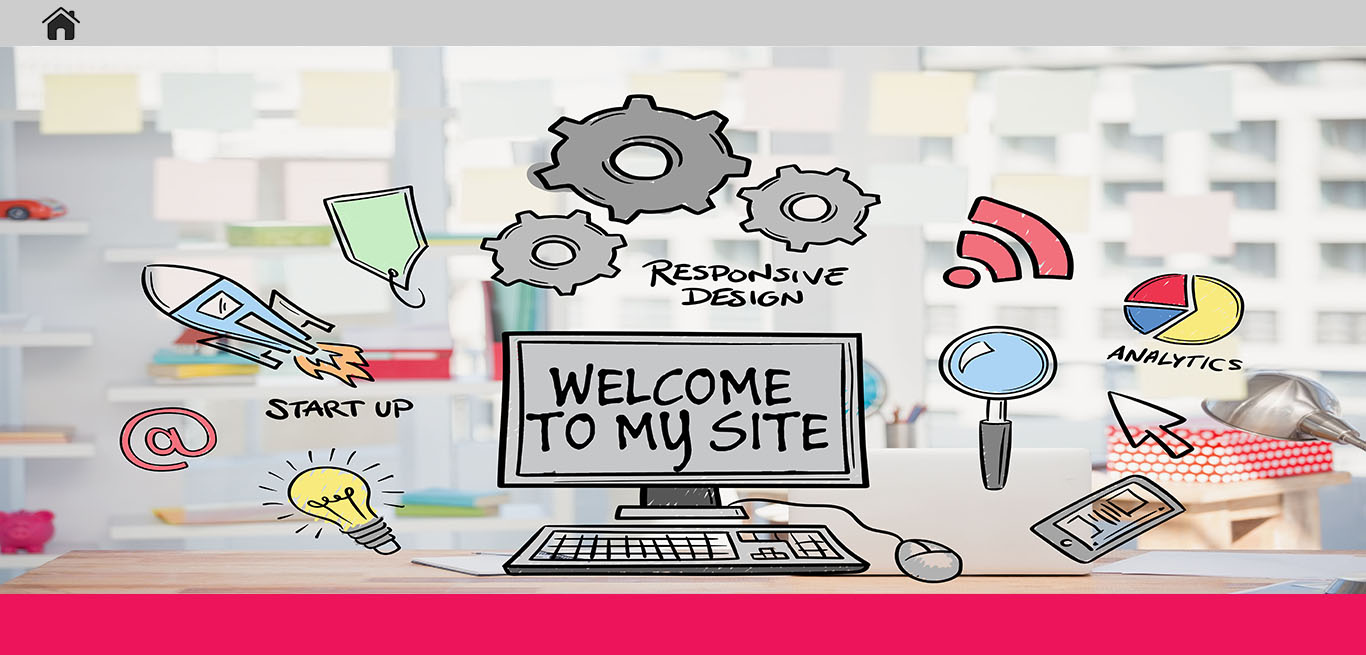
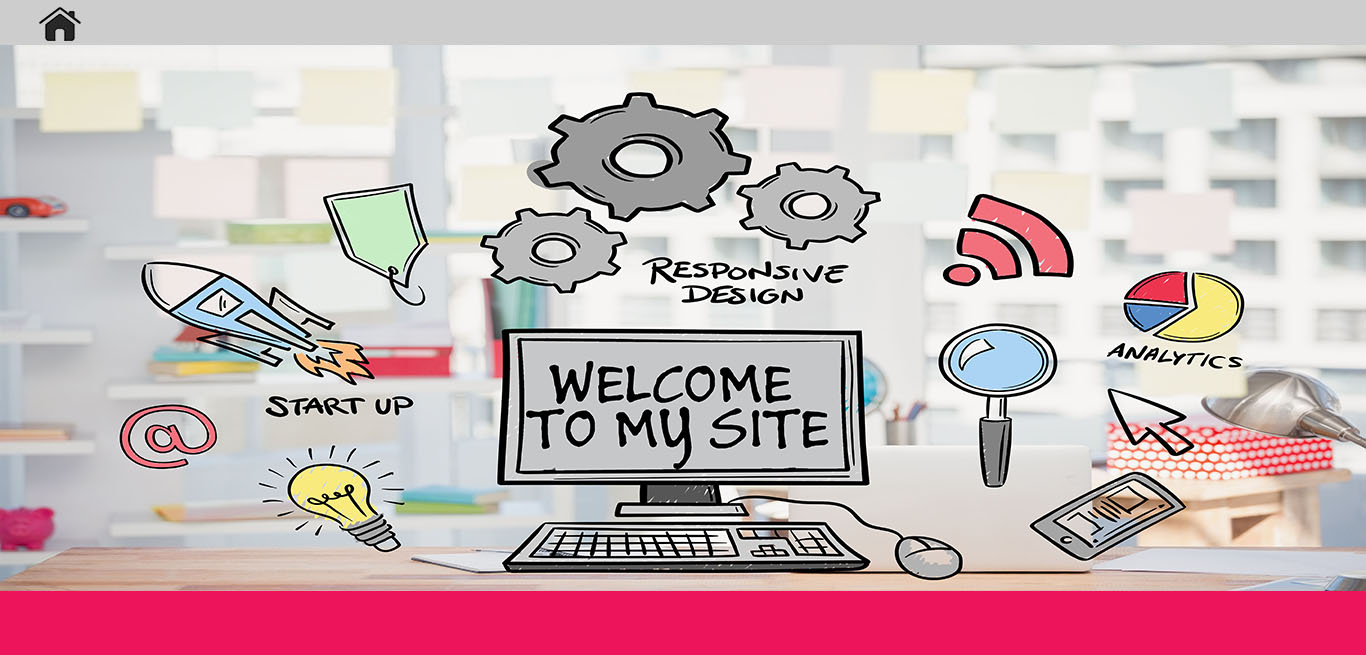
blog.html

diff --git a/blog.html b/blog.html
@@ -4,7 +4,7 @@
 <title>Mice Dianne</title>
 	
 	<link rel="stylesheet" type="text/css" href="style4.css">
-	<link rel="stylesheet" type="text/css" href="style2.css">
+	
 <style>
 
 	#footer {
@@ -22,7 +22,7 @@
 }
 </style>
 </head>
-<body background="images/b5.jpg">
+<body >
 
 <header>
 <div class="topnav">
@@ -44,12 +44,57 @@
 
 <div class="responsive">
   <div class="gallery">
-  <a target="_blank" href="images/1.jpg">
-   <img src="images/1.jpg" width="200" height="200">
+  <a target="_blank" href="images/blog1.jpg">
+   <img src="images/blog1.jpg" width="200" height="200">
     </a>
     
   </div>
 </div>
+
+
+<div class="responsive">
+  <div class="gallery">
+  <a target="_blank" href="images/blog2.jpg">
+   <img src="images/blog2.jpg" width="200" height="200">
+    </a>
+    
+  </div>
+</div>
+
+<div class="responsive">
+  <div class="gallery">
+  <a target="_blank" href="images/blog3.jpg">
+   <img src="images/blog3.jpg" width="200" height="200">
+    </a>
+    
+  </div>
+</div>
+
+
+<div class="responsive">
+  <div class="gallery">
+  <a target="_blank" href="images/blog4.jpg">
+   <img src="images/blog4.jpg" width="200" height="200">
+    </a>
+    
+  </div>
+</div>
+
+<div class="responsive">
+  <div class="gallery">
+  <a target="_blank" href="images/blog5.jpg">
+   <img src="images/blog5.jpg" width="200" height="200">
+    </a>
+    
+  </div>
+</div>
+
+
+
+
+
+
+
 
 <div id="footer">
 		Copyright &copy; 2017 <br/>

diff --git a/style4.css b/style4.css
@@ -11,8 +11,54 @@
 		#profile { width: 400px; margin: 50px auto; padding: 20px; background: white; -moz-box-shadow: 0 0 20px black; -webkit-box-shadow: 0 0 20px black; box-shadow: 0 0 20px black; }
 		p { font: 15px/2 Georgia, Serif; margin: 0 0 30px 0; text-indent: 40px; }
 
+div.gallery {
+    border: 5px solid pink;
+}
 
-		
+div.gallery:hover {
+    border: 10px solid black;
+}
+
+div.gallery img {
+    width: 100%;
+    height: auto;
+    
+}
+
+div.desc {
+    padding: 15px;
+    text-align: center;
+}
+
+* {
+    box-sizing: border-box;
+}
+
+.responsive {
+    padding: 0 6px;
+    float: left;
+    width: 24.99999%;
+}
+
+@media only screen and (max-width: 700px){
+    .responsive {
+        width: 49.99999%;
+        margin: 6px 0;
+    }
+}
+
+@media only screen and (max-width: 500px){
+    .responsive {
+        width: 100%;
+    }
+}
+
+.clearfix:after {
+    content: "";
+    display: table;
+    clear: both;
+}
+
 
 .topnav {
   overflow: hidden;
@@ -38,3 +84,4 @@
     background-color: pink;
     color: white;
 }			
+	

diff --git a/index.html b/index.html
@@ -4,6 +4,7 @@
 <title>Mice Dianne</title>
 	
 	<link rel="stylesheet" type="text/css" href="style1.css">
+	
 <style>
 
 	#footer {
@@ -12,8 +13,8 @@
 	padding:10px 15px;
 	clear:both;
     	position: relative;
-  	margin-top: 34em;
-	
+  	margin-top: 35em;
+
 	color:white;
 	
 	
@@ -21,7 +22,7 @@
 }
 </style>
 </head>
-<body background="images/b2.jpg">
+<body >
 
 <header>
 <div class="topnav">
@@ -32,18 +33,12 @@
  
 
 </header>
-
-
-
 </div>
-
 
 <div id="footer">
 		Copyright &copy; 2017 <br/>
-		<a>Web Design by Mice Dianne Morta</a>
- 		
+		Web Design by Mice Dianne Morta</a>
 	</div>
-
 
 </body>
 </html>

diff --git a/style1.css b/style1.css
@@ -1,6 +1,17 @@
 * { margin: 0; padding: 0; }
+		
+		
+		
+		html { 
+			background: url(images/b2.jpg) no-repeat center center fixed; 
+			-webkit-background-size: cover;
+			-moz-background-size: cover;
+			-o-background-size: cover;
+			background-size: cover;
+		}
 
 
+		
 
 .topnav {
   overflow: hidden;
@@ -14,7 +25,7 @@
   text-align: center;
   padding: 14px 16px;
   text-decoration: none;
-  font-size: 18px;
+  font-size: 19px;
 }
 
 .topnav a:hover {
@@ -26,12 +37,3 @@
     background-color: pink;
     color: white;
 }			
-	
-
-	
-
-		
-
-
-
- 

diff --git a/style3.css b/style3.css
@@ -46,7 +46,7 @@ div {
 
 
 .stuff {
-  display: block;
+  display:inline- block;
   margin-top: 6px;
   margin-left: 55px;
   width: 75%;
@@ -63,25 +63,16 @@ li {
 .head {
   font-size: 30px;
  font-weight: 900;
+
 }
 
-#name {
-  
-  float: right;
-  margin-top: 10px;
-  margin-right: 4%;
-}
+
 
 a {
   color: black;
   text-decoration: none;
 }
 
-@media only screen and (max-width: 430px) {
-  .left,
-  .right {
-    display: none;
-  }
   .stuff {
     width: 100%;
     margin-left: 10px;
